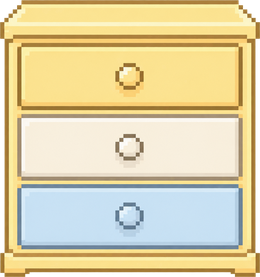
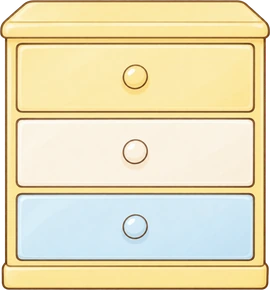
Add files via upload

diff --git a/index.html b/index.html
@@ -18,9 +18,9 @@
     <!-- html2canvas (PNG 저장용) -->
     <script src="https://cdnjs.cloudflare.com/ajax/libs/html2canvas/1.4.1/html2canvas.min.js"></script>
 
-    <script src="js/features.js?v=20261009-768"></script>   <!-- 🔓 기능 공개 스위치 (다른 것보다 먼저) -->
-    <link rel="stylesheet" href="css/style.css?v=20261009-768">
-    <link rel="stylesheet" href="css/dakku.css?v=20261009-768">
+    <script src="js/features.js?v=20261009-769"></script>   <!-- 🔓 기능 공개 스위치 (다른 것보다 먼저) -->
+    <link rel="stylesheet" href="css/style.css?v=20261009-769">
+    <link rel="stylesheet" href="css/dakku.css?v=20261009-769">
     <script src="https://accounts.google.com/gsi/client" async defer></script>
 </head>
 <body>
@@ -950,103 +950,103 @@
     </div>
 
     <!-- 📦 코드 파일 (순서 중요 · 업데이트할 때 ?v= 뒤 숫자를 바꾸면 모든 사용자가 새 파일을 받아요) -->
-    <script src="js/localtest.js?v=20261009-768"></script>   <!-- 💻 내 컴퓨터(localhost)에서만 : 로그인 없이 테스트 -->
-    <script src="js/trash.js?v=20261009-768"></script>   <!-- 🗑 휴지통 : 지운 것 · 덮어쓰기 전 모습 30일 -->
-    <script src="js/backup.js?v=20261009-768"></script>   <!-- 📦 백업 · 📥 불러오기 : 말랑달콤 폴더 통째로 zip -->
-    <script src="js/devsave.js?v=20261009-768"></script>   <!-- 📁 로그인 없이 : 이 기기의 말랑달콤 폴더에 저장 -->
-    <script src="js/drive.js?v=20261009-768"></script>
-    <script src="js/desk.js?v=20261009-768"></script>   <!-- 🪑 책상 꾸미기 (💻 PC · 아이패드만) -->
-    <script src="js/coll.js?v=20261009-768"></script>
-    <script src="js/sound.js?v=20261009-768"></script>
-    <script src="js/app.js?v=20261009-768"></script>
-    <script src="js/page.js?v=20261009-768"></script>
-    <script src="js/elements.js?v=20261009-768"></script>
-    <script src="js/tapmenu.js?v=20261009-768"></script>
-    <script src="js/settings.js?v=20261009-768"></script>
-    <script src="js/patterns.js?v=20261009-768"></script>
+    <script src="js/localtest.js?v=20261009-769"></script>   <!-- 💻 내 컴퓨터(localhost)에서만 : 로그인 없이 테스트 -->
+    <script src="js/trash.js?v=20261009-769"></script>   <!-- 🗑 휴지통 : 지운 것 · 덮어쓰기 전 모습 30일 -->
+    <script src="js/backup.js?v=20261009-769"></script>   <!-- 📦 백업 · 📥 불러오기 : 말랑달콤 폴더 통째로 zip -->
+    <script src="js/devsave.js?v=20261009-769"></script>   <!-- 📁 로그인 없이 : 이 기기의 말랑달콤 폴더에 저장 -->
+    <script src="js/drive.js?v=20261009-769"></script>
+    <script src="js/desk.js?v=20261009-769"></script>   <!-- 🪑 책상 꾸미기 (💻 PC · 아이패드만) -->
+    <script src="js/coll.js?v=20261009-769"></script>
+    <script src="js/sound.js?v=20261009-769"></script>
+    <script src="js/app.js?v=20261009-769"></script>
+    <script src="js/page.js?v=20261009-769"></script>
+    <script src="js/elements.js?v=20261009-769"></script>
+    <script src="js/tapmenu.js?v=20261009-769"></script>
+    <script src="js/settings.js?v=20261009-769"></script>
+    <script src="js/patterns.js?v=20261009-769"></script>
     <!-- 🌟 카페에서 받아 등록한 사용자 패턴 (pattern-tool.html 로 만들어요 · 없거나 깨져도 다이어리는 정상 동작) -->
     <script src="js/community-patterns.js"></script>
     <!-- 🌟 카페에서 받아 등록한 모두의 스킨 (pattern-tool.html 로 만들어요 · 없거나 깨져도 다이어리는 정상 동작) -->
     <script src="js/community-skins.js"></script>
-    <script src="js/pattern-recipe.js?v=20261009-768"></script>
-    <script src="js/skins.js?v=20261009-768"></script>
-    <script src="js/dkguide.js?v=20261009-768"></script>   <!-- 🩷 처음 쓰는 사람용 다꾸하는 법 메모 -->
-    <script src="js/dymaker.js?v=20261009-768"></script>
-    <script src="js/pattern-maker.js?v=20261009-768"></script>
-    <script src="js/skinstudio.js?v=20261009-768"></script>
-    <script src="js/theme-skins.js?v=20261009-768"></script>
-    <script src="js/doll-art.js?v=20261009-768"></script>
-    <script src="js/doll-render.js?v=20261009-768"></script>
-    <script src="js/doll-store.js?v=20261009-768"></script>
-    <script src="js/doll-room.js?v=20261009-768"></script>
-    <script src="js/doll-move.js?v=20261009-768"></script>
-    <script src="js/glrun.js?v=20261009-768"></script>
-    <script src="js/char-move.js?v=20261009-768"></script>
-    <script src="js/puppet.js?v=20261009-768"></script>
-    <script src="js/service.js?v=20261009-768"></script>
+    <script src="js/pattern-recipe.js?v=20261009-769"></script>
+    <script src="js/skins.js?v=20261009-769"></script>
+    <script src="js/dkguide.js?v=20261009-769"></script>   <!-- 🩷 처음 쓰는 사람용 다꾸하는 법 메모 -->
+    <script src="js/dymaker.js?v=20261009-769"></script>
+    <script src="js/pattern-maker.js?v=20261009-769"></script>
+    <script src="js/skinstudio.js?v=20261009-769"></script>
+    <script src="js/theme-skins.js?v=20261009-769"></script>
+    <script src="js/doll-art.js?v=20261009-769"></script>
+    <script src="js/doll-render.js?v=20261009-769"></script>
+    <script src="js/doll-store.js?v=20261009-769"></script>
+    <script src="js/doll-room.js?v=20261009-769"></script>
+    <script src="js/doll-move.js?v=20261009-769"></script>
+    <script src="js/glrun.js?v=20261009-769"></script>
+    <script src="js/char-move.js?v=20261009-769"></script>
+    <script src="js/puppet.js?v=20261009-769"></script>
+    <script src="js/service.js?v=20261009-769"></script>
     <!-- 🎁 랜덤박스 (없어도 다이어리는 정상 동작) -->
-    <script src="js/gacha.js?v=20261009-768"></script>
-    <script src="js/presence.js?v=20261009-768"></script>
-    <script src="js/fbase.js?v=20261009-768"></script>   <!-- 🔥 파이어스토어 연결 (🔔 선물 벨 · 📞 전화기) -->
-    <script src="js/fphone.js?v=20261009-768"></script>   <!-- 📞 반짝이 피처폰 메신저 (로그인 회원끼리) -->
+    <script src="js/gacha.js?v=20261009-769"></script>
+    <script src="js/presence.js?v=20261009-769"></script>
+    <script src="js/fbase.js?v=20261009-769"></script>   <!-- 🔥 파이어스토어 연결 (🔔 선물 벨 · 📞 전화기) -->
+    <script src="js/fphone.js?v=20261009-769"></script>   <!-- 📞 반짝이 피처폰 메신저 (로그인 회원끼리) -->
     <!-- 🎵 배경음악 (없어도 다이어리는 정상 동작) -->
-    <script src="js/bgm.js?v=20261009-768"></script>
+    <script src="js/bgm.js?v=20261009-769"></script>
     <!-- 🔮 포춘카드 (없어도 다이어리는 정상 동작) -->
-    <script src="js/fortune.js?v=20261009-768"></script>
+    <script src="js/fortune.js?v=20261009-769"></script>
     <!-- 🕹 오락실 (없어도 다이어리는 정상 동작) -->
-    <script src="js/arcade.js?v=20261009-768"></script>
-    <script src="js/hof.js?v=20261009-768"></script>
+    <script src="js/arcade.js?v=20261009-769"></script>
+    <script src="js/hof.js?v=20261009-769"></script>
     <!-- 🌙 꿈해몽 (상징 사전 js/dream-data.js 는 꿈해몽을 열 때 불러와요 · 없어도 다이어리는 정상 동작) -->
-    <script src="js/ritual.js?v=20261009-768"></script>
-    <script src="js/dream.js?v=20261009-768"></script>
+    <script src="js/ritual.js?v=20261009-769"></script>
+    <script src="js/dream.js?v=20261009-769"></script>
     <!-- 🎍 토정비결 (음력 계산 js/lib/korean-lunar-calendar.min.js 는 토정비결을 열 때 불러와요 · 없어도 다이어리는 정상 동작) -->
-    <script src="js/tojeong.js?v=20261009-768"></script>
-    <script src="js/plant.js?v=20261009-768"></script>
-    <script src="js/capsule-stickers.js?v=20261009-768"></script>
-    <script src="js/attend.js?v=20261009-768"></script>
-    <script src="js/luck.js?v=20261009-768"></script>
-    <script src="js/question-data.js?v=20261009-768"></script>
-    <script src="js/question.js?v=20261009-768"></script>
-    <script src="js/tape.js?v=20261009-768"></script>
-    <script src="js/paper.js?v=20261009-768"></script>
-    <script src="js/leafpad.js?v=20261009-768"></script>
-    <script src="js/leafmaker.js?v=20261009-768"></script>
-    <script src="js/draw.js?v=20261009-768"></script>
-    <script src="js/pencase.js?v=20261009-768"></script>
-    <script src="js/frame.js?v=20261009-768"></script>
-    <script src="js/season-data.js?v=20261009-768"></script>
-    <script src="js/season.js?v=20261009-768"></script>
-    <script src="js/lock.js?v=20261009-768"></script>
-    <script src="js/cycle.js?v=20261009-768"></script>
-    <script src="js/month.js?v=20261009-768"></script>
-    <script src="js/stamp.js?v=20261009-768"></script>
-    <script src="js/search.js?v=20261009-768"></script>
-    <script src="js/dday.js?v=20261009-768"></script>
-    <script src="js/show.js?v=20261009-768"></script>
-    <script src="js/press.js?v=20261009-768"></script>
-    <script src="js/photobooth.js?v=20261009-768"></script>
-    <script src="js/stickermaker.js?v=20261009-768"></script>
-    <script src="js/stickerpeel.js?v=20261009-768"></script>
-    <script src="js/stkedit.js?v=20261009-768"></script>   <!-- 🎨 스티커 다듬기 : 씰 종이에서 떼기 전에 색 · 뒤집기 · 자르기 · 지우개 · 글씨 · 반짝이 -->
-    <script src="js/stkcut.js?v=20261009-768"></script>   <!-- ✂ 스티커 자르기 : 꾹 누르기 메뉴 → 스티커 칼로 가로질러 그어 두 조각 -->
-    <script src="js/ruler.js?v=20261009-768"></script>   <!-- 📏 자 : 연필꽂이에서 뽑아 페이지에 깔아 둬요 · 칼 · 색연필을 대면 반듯하게 · 진짜 cm -->
-    <script src="js/piecebag.js?v=20261009-768"></script>
-    <script src="js/dakku.js?v=20261009-768"></script>
-    <script src="js/papermaker.js?v=20261009-768"></script>
-    <script src="js/stk-basic.js?v=20261009-768"></script>
-    <script src="js/peelfx.js?v=20261009-768"></script>
-    <script src="js/tapemaker.js?v=20261009-768"></script>
-    <script src="js/sharebox.js?v=20261009-768"></script>
-    <script src="js/namematch.js?v=20261009-768"></script>
-    <script src="js/psytest-data.js?v=20261009-768"></script>
-    <script src="js/psytest.js?v=20261009-768"></script>
-    <script src="js/letter.js?v=20261009-768"></script>
-    <script src="js/install.js?v=20261009-768"></script>
-    <script src="js/piggy.js?v=20261009-768"></script>
-    <script src="js/wall.js?v=20261009-768"></script>
-    <script src="js/arrival.js?v=20261009-768"></script>
-    <script src="js/own.js?v=20261009-768"></script>   <!-- 🎒 유한 스티커 : 내 종이 저장 · 한 번 쓰면 영원히 사라져요 -->
-    <script src="js/basket.js?v=20261009-768"></script>   <!-- 🧺 내 바구니 · 🏪 진열대 -->
+    <script src="js/tojeong.js?v=20261009-769"></script>
+    <script src="js/plant.js?v=20261009-769"></script>
+    <script src="js/capsule-stickers.js?v=20261009-769"></script>
+    <script src="js/attend.js?v=20261009-769"></script>
+    <script src="js/luck.js?v=20261009-769"></script>
+    <script src="js/question-data.js?v=20261009-769"></script>
+    <script src="js/question.js?v=20261009-769"></script>
+    <script src="js/tape.js?v=20261009-769"></script>
+    <script src="js/paper.js?v=20261009-769"></script>
+    <script src="js/leafpad.js?v=20261009-769"></script>
+    <script src="js/leafmaker.js?v=20261009-769"></script>
+    <script src="js/draw.js?v=20261009-769"></script>
+    <script src="js/pencase.js?v=20261009-769"></script>
+    <script src="js/frame.js?v=20261009-769"></script>
+    <script src="js/season-data.js?v=20261009-769"></script>
+    <script src="js/season.js?v=20261009-769"></script>
+    <script src="js/lock.js?v=20261009-769"></script>
+    <script src="js/cycle.js?v=20261009-769"></script>
+    <script src="js/month.js?v=20261009-769"></script>
+    <script src="js/stamp.js?v=20261009-769"></script>
+    <script src="js/search.js?v=20261009-769"></script>
+    <script src="js/dday.js?v=20261009-769"></script>
+    <script src="js/show.js?v=20261009-769"></script>
+    <script src="js/press.js?v=20261009-769"></script>
+    <script src="js/photobooth.js?v=20261009-769"></script>
+    <script src="js/stickermaker.js?v=20261009-769"></script>
+    <script src="js/stickerpeel.js?v=20261009-769"></script>
+    <script src="js/stkedit.js?v=20261009-769"></script>   <!-- 🎨 스티커 다듬기 : 씰 종이에서 떼기 전에 색 · 뒤집기 · 자르기 · 지우개 · 글씨 · 반짝이 -->
+    <script src="js/stkcut.js?v=20261009-769"></script>   <!-- ✂ 스티커 자르기 : 꾹 누르기 메뉴 → 스티커 칼로 가로질러 그어 두 조각 -->
+    <script src="js/ruler.js?v=20261009-769"></script>   <!-- 📏 자 : 연필꽂이에서 뽑아 페이지에 깔아 둬요 · 칼 · 색연필을 대면 반듯하게 · 진짜 cm -->
+    <script src="js/piecebag.js?v=20261009-769"></script>
+    <script src="js/dakku.js?v=20261009-769"></script>
+    <script src="js/papermaker.js?v=20261009-769"></script>
+    <script src="js/stk-basic.js?v=20261009-769"></script>
+    <script src="js/peelfx.js?v=20261009-769"></script>
+    <script src="js/tapemaker.js?v=20261009-769"></script>
+    <script src="js/sharebox.js?v=20261009-769"></script>
+    <script src="js/namematch.js?v=20261009-769"></script>
+    <script src="js/psytest-data.js?v=20261009-769"></script>
+    <script src="js/psytest.js?v=20261009-769"></script>
+    <script src="js/letter.js?v=20261009-769"></script>
+    <script src="js/install.js?v=20261009-769"></script>
+    <script src="js/piggy.js?v=20261009-769"></script>
+    <script src="js/wall.js?v=20261009-769"></script>
+    <script src="js/arrival.js?v=20261009-769"></script>
+    <script src="js/own.js?v=20261009-769"></script>   <!-- 🎒 유한 스티커 : 내 종이 저장 · 한 번 쓰면 영원히 사라져요 -->
+    <script src="js/basket.js?v=20261009-769"></script>   <!-- 🧺 내 바구니 · 🏪 진열대 -->
 
     <!-- 🛡 파일 누락 확인 : 하나라도 못 읽었으면 다이어리를 시작하지 않아서 잘못된 저장을 막아요 -->
     <script>

diff --git a/js/desk.js b/js/desk.js
@@ -1,10 +1,10 @@
 /* 말랑달콤 다이어리 - js/desk.js
    🪑 책상 꾸미기 (도련 10-26 · 💻 PC · 아이패드만 = html.desk-on · 📱 폰은 없어요)
-   - 책상 그림(img/desk-wide.webp · 1672×941)과 소품을 한 무대(#deskStage)에 · 무대는 책상 그림 크기 그대로 화면을 꽉 채우게(cover · 아래 맞춤) 늘었다 줄었다
+   - 책상 그림(img/desk-wide.webp · 1672×941 · 갈색 선 일러스트 (10-26 픽셀아트 → 일러스트))과 소품을 한 무대(#deskStage)에 · 무대는 책상 그림 크기 그대로 화면을 꽉 채우게(cover · 아래 맞춤) 늘었다 줄었다
      → 소품 자리는 늘 책상 그림 기준 좌표(px)로 저장해요 · 화면 크기가 바뀌어도 같은 자리
    - 소품은 마우스 · 손가락으로 끌어서 옮겨요 · 톡 = 고르기 (점선 테두리 + 위에 작은 버튼)
    - 🧲 딱 맞추기 (켬 / 끔 · 고른 소품 위 버튼 · 이 기기에 기억) :
-       켬 = 책상 픽셀 한 칸(4px)에 맞춰 놓이고 · 책상 뒤쪽 선(벽에 붙이기) · 양옆 벽 모서리 가까이 가면 착 붙어요 (분홍 안내선)
+       켬 = 4px 칸에 맞춰 놓이고 · 책상 뒤쪽 선(벽에 붙이기) · 양옆 벽 모서리 가까이 가면 착 붙어요 (분홍 안내선)
        끔 = 손이 가는 그대로 부드럽게
        💻 끄는 동안 Shift 를 누르고 있으면 잠깐 반대로
    - 지금 자리는 이 기기에만 기억해요 (나중에 소품을 사고 팔게 되면 드라이브에 저장)
@@ -12,7 +12,7 @@
 
         const DESK_W = 1672, DESK_H = 941, DESK_PX = 4;
         const DESK_EDGE = { back: 721, left: 140, right: 1540 };                 // 책상 뒤쪽 선 (벽과 만나는 곳) · 양옆 벽 모서리 (그림 px)
-        const DESK_ITEMS = [{ id: 'drawer', src: 'img/desk/drawer.webp', w: 260, h: 277, x: 1200, y: 484, name: '서랍장' }];   // y = 위쪽 (다리가 책상 뒤쪽 선 조금 앞)
+        const DESK_ITEMS = [{ id: 'drawer', src: 'img/desk/drawer.webp', w: 270, h: 290, x: 1200, y: 471, name: '서랍장' }];   // y = 위쪽 (다리가 책상 뒤쪽 선 조금 앞)
         const DK_POS = 'malang_desk_pos', DK_SNAP = 'malang_desk_snap';
         const dkGet = (k, d) => { try { const v = JSON.parse(localStorage.getItem(k)); return v == null ? d : v; } catch (e) { return d; } };
         const dkSet = (k, v) => { try { localStorage.setItem(k, JSON.stringify(v)); } catch (e) {} };

diff --git a/css/style.css b/css/style.css
@@ -4452,13 +4452,13 @@ body.cafe-on .dg-note { visibility: hidden; }
 }
 
 /* 🪑 책상 배경 + 🚪 문 열기 (도련 10-26 · 💻 PC · 아이패드만 · html.desk-on = 화면 짧은 쪽 600px 이상 · js/drive.js deskSync · hideGate)
-   책상 = img/desk-wide.webp (연한 핑크 픽셀 4px · 빈 책상과 벽) · 나중에 소품을 올려요 · 지금은 배경 무늬 대신 책상이 보여요 */
+   책상 = img/desk-wide.webp (갈색 선 핑크 일러스트 · 빈 책상과 벽) · 나중에 소품을 올려요 · 지금은 배경 무늬 대신 책상이 보여요 */
 .desk-bg { position: fixed; inset: 0; z-index: -1; pointer-events: none; display: none; overflow: hidden; background: #fadfe8; }
 html.desk-on:not(.desk-show) .desk-bg { z-index: 5; pointer-events: auto; }   /* 책상만 볼 때는 소품을 만질 수 있어요 (js/desk.js) */
 .desk-stage { position: absolute; left: 0; top: 0; width: 1672px; height: 941px; transform-origin: 0 0; }
-.desk-room { position: absolute; inset: 0; width: 100%; height: 100%; image-rendering: pixelated; pointer-events: none; user-select: none; }
-.desk-item { position: absolute; image-rendering: pixelated; cursor: grab; touch-action: none; user-select: none; -webkit-user-drag: none; }
-.desk-item.lift { cursor: grabbing; filter: drop-shadow(0 10px 8px rgba(150, 70, 100, .25)); }
+.desk-room { position: absolute; inset: 0; width: 100%; height: 100%; pointer-events: none; user-select: none; }
+.desk-item { position: absolute; cursor: grab; touch-action: none; user-select: none; -webkit-user-drag: none; filter: drop-shadow(0 8px 6px rgba(190, 110, 140, .28)); }   /* 책상 위에 서 있는 그림자 */
+.desk-item.lift { cursor: grabbing; filter: drop-shadow(0 18px 12px rgba(150, 70, 100, .3)); }
 .desk-item.sel { outline: 3px dashed rgba(226, 85, 127, .7); outline-offset: 6px; }
 html.desk-show .desk-item { pointer-events: none; }
 .desk-guide { position: absolute; display: none; pointer-events: none; }
